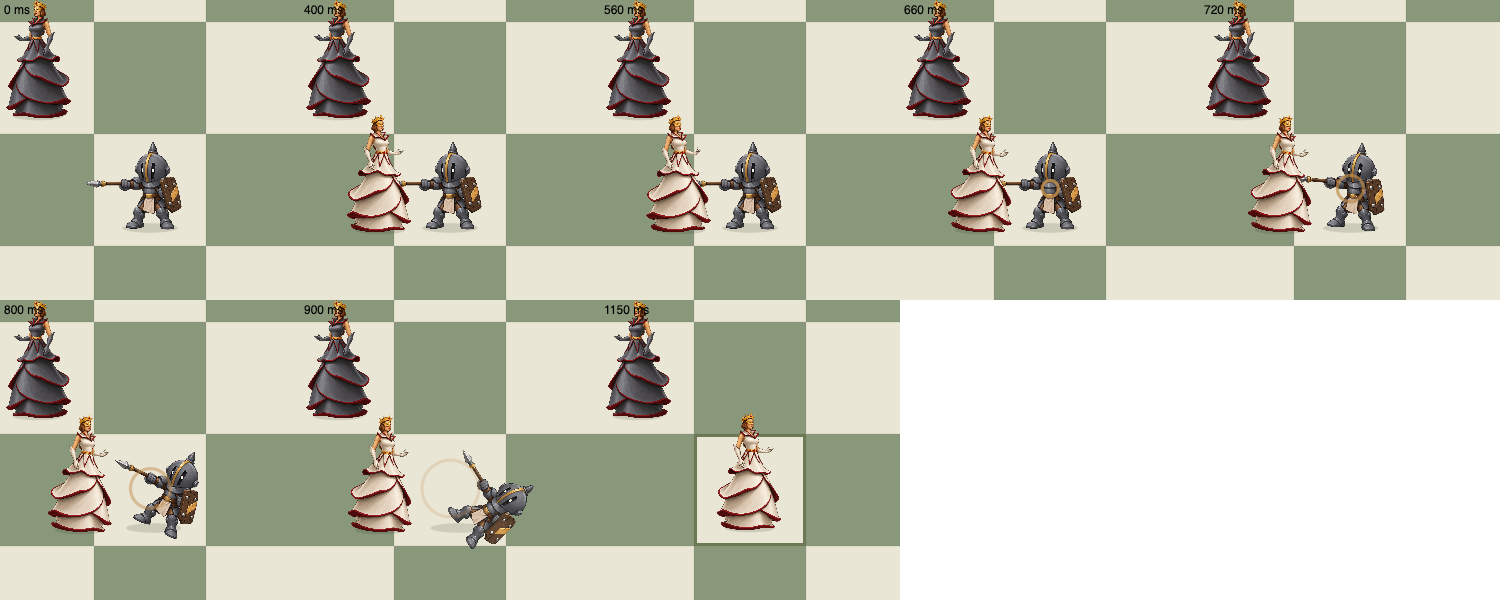
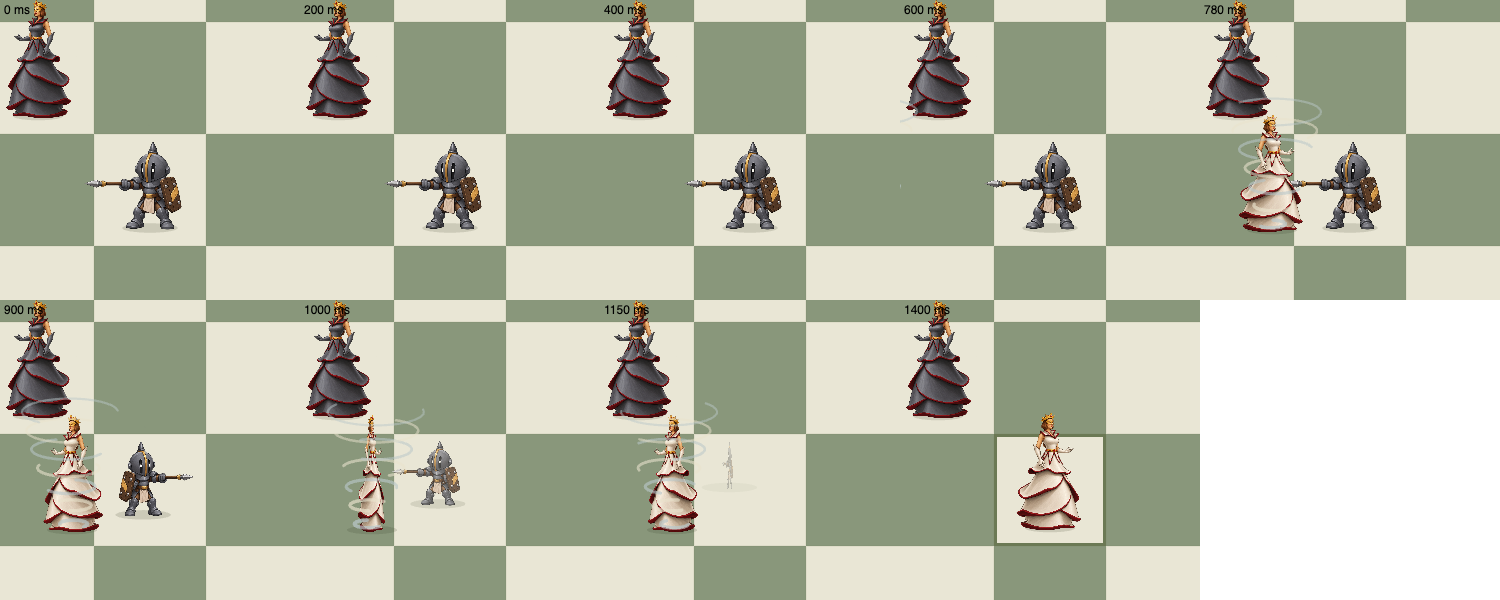
Rook pounds the ground, Queen spins a hurricane, Beast's teeth shoot from its mouth

diff --git a/docs/2d-first-pieces/board/README.md b/docs/2d-first-pieces/board/README.md
@@ -146,10 +146,10 @@ Motion is a rigid lean (same as the Maester). The Frost King's skin stays pale b
 
 Every capturing piece now has its own capture. New in this pass (`blows.mjs`: shared timeline; effects in `prototype.mjs`):
 
-- **Rook, tower slam:** stops beside the victim, rocks back, then topples forward so the tower lands on the victim. Board shake, squash, ground ring, cracks and dust (same effects as the Paladin).
-- **Queen, command:** a small commanding lean; the victim is knocked over away from her and fades, with a ring at the point of command.
+- **Rook, ground pound:** stops beside the victim and pounds the ground twice with his stone forearm (a small mesh bends at the elbow; `drawRookPound` in `../rook/motion.mjs`). Each thump raises dust and cracks; the first bounces the victim, the second crushes it.
+- **Queen, hurricane:** she spins up inside a funnel of wind, whirls across to the victim, and the victim is lifted, spun and carried off before she settles into the square.
 - **King, frost:** the victim ices over pale blue, then shatters into nine wedges that fly apart and fall.
-- **Beast, chomp:** stops beside each victim in the chain; two rows of bone teeth snap shut on the victim before it fades, then the next bite. After the last bite he steps onto that square.
+- **Beast, bite:** stops beside each victim; his teeth shoot out from inside the open mouth to the victim, snap shut, and pull back before the next bite. After the last bite he steps onto that square.
 
 Attackers now stand beside the victim, never on top of it, so straight-file captures stay readable. Checked by `capture-strikes.mjs` (Rook, Queen, King and Beast frame sheets in [strikes/](strikes/)) and `blows.test.mjs`.
 
